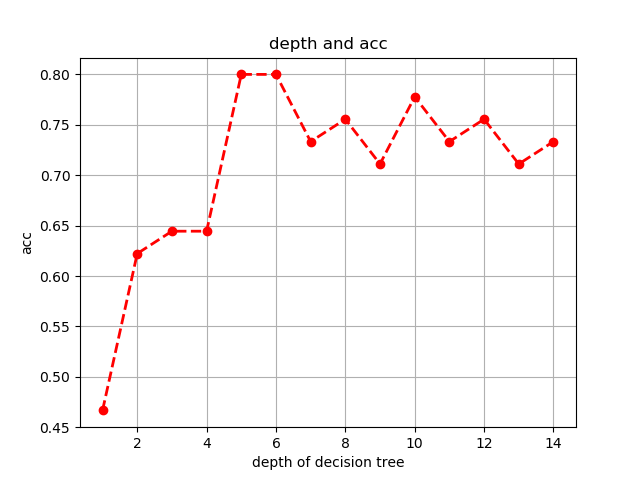
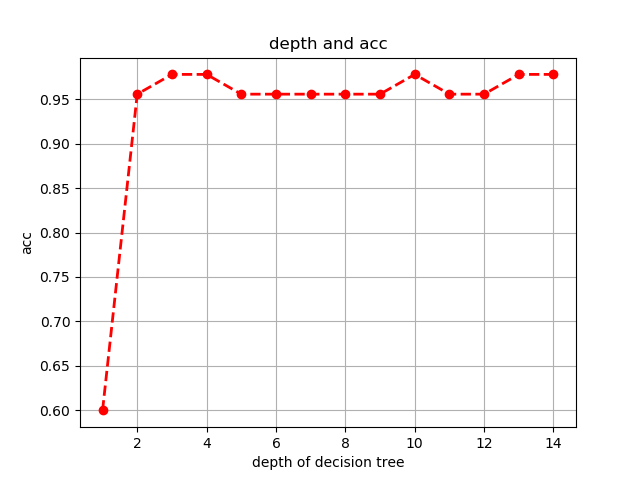
DecisionTreeClassifier
DecisionTreeClassifier

diff --git a/code/irisClassification/decisionTree.py b/code/irisClassification/decisionTree.py
@@ -25,8 +25,6 @@ def iris_type(s):
 def load_data(path):
     data = np.loadtxt(path, dtype=float, delimiter=',', converters={4: iris_type})
     x, y = np.split(data, (4,), axis=1)
-    # 为了可视化，仅使用前两列特征
-    x = x[:, :2]
     x_train, x_test, y_train, y_test = train_test_split(x, y, test_size=0.3, random_state=24)
     return x_train, x_test, y_train, y_test
 

diff --git a/README.md b/README.md
@@ -18,6 +18,9 @@
   - <a href = "#C4.5">1.6 C4.5</a>
   - <a href = "#CART">1.7 CART</a>
   - <a href = "#剪枝">1.8 剪枝</a>
+  - <a href = "#实战">1.9 实战</a>
+    - <a href = "#决策树分类">1.9.1 决策树分类</a>
+    - <a href = "#决策树回归">1.9.1 决策树回归</a>
 - <a href = "#random-forest">2. Random Forest</a>
 - <a href = "#bagging">3. Bagging</a>
 - <a href = "#Boosting">4. Boosting</a>
@@ -30,7 +33,6 @@
 在介绍决策树之前我们先看看决策树长什么样。我们这个决策树是判定一个人是否要去相亲。
 
 <div align = "center"><image src="https://github.com/Knowledge-Precipitation-Tribe/Decision-tree-and-Random-forest/blob/master/images/decisionTree.png" width = "300" height = "295" alt="axis" align=center /></div>
-
 
 学过软件工程的朋友应该接触过判定树，判定树也称为决策树，只不过呢在机器学习的决策树中如何向下分割节点要由更复杂的计算公式决定。
 
@@ -341,6 +343,22 @@ ID3算法不足：
 **后剪枝**
 
 后剪枝就是我们已经有一个完整的决策树了，我们可以将哪些节点进行剪枝呢？
+
+---
+
+### [实战](#content)
+
+### [决策树分类](#content)
+
+我们在Iris鸢尾花卉数据集上实现分类效果，对于数据集的特征情况和可视化结果请看：[Dive-into-matplotlib](https://github.com/Knowledge-Precipitation-Tribe/Dive-into-matplotlib)。我们这里使用max_depth=3的决策树，准确率可达：97.78%。最终生成的决策树如下：
+
+![iris_tree]()
+
+
+
+
+
+
 
 ---
 
